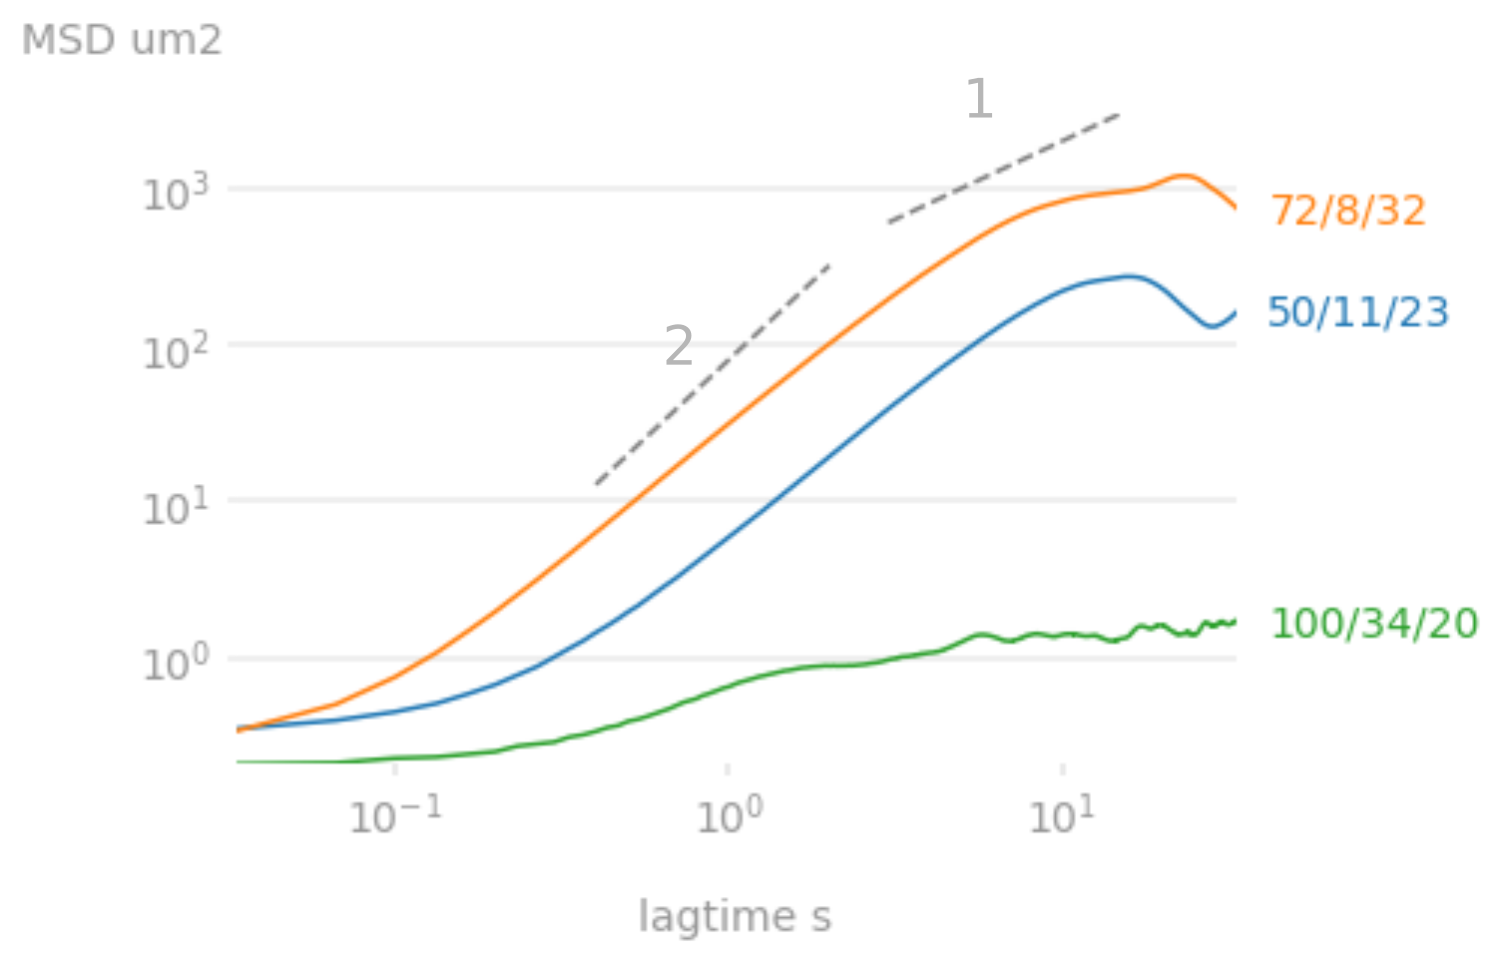
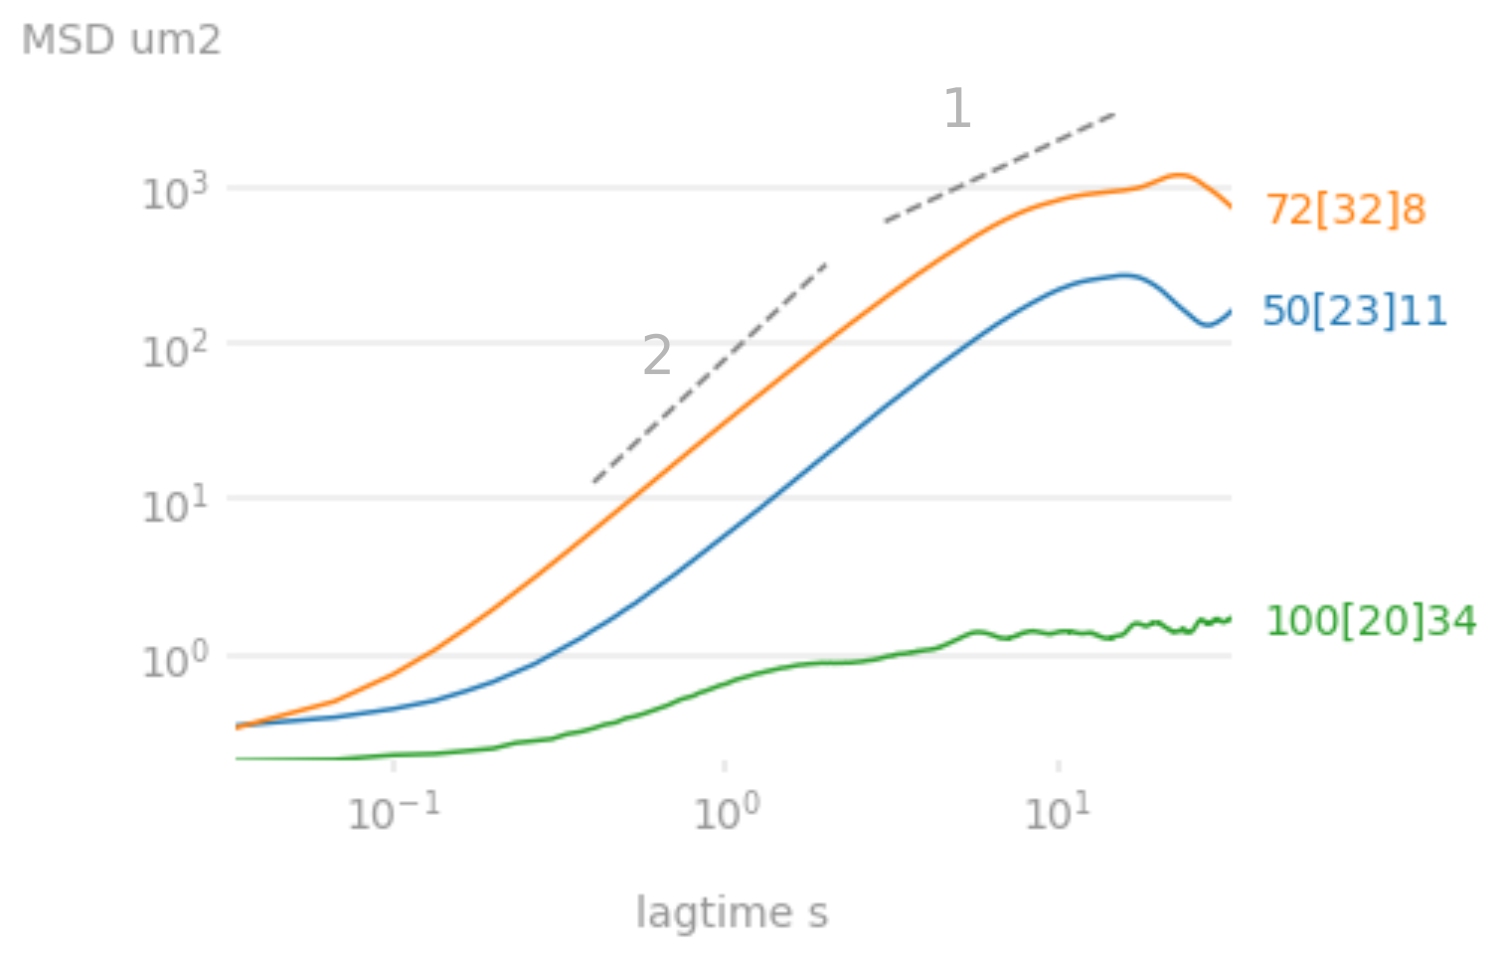
Change the naming convention
use outer[OD]inner instead of outer/inner/OD, because the latter looks 
like a date

diff --git a/Notes/Diffusivity/README.md b/Notes/Diffusivity/README.md
@@ -19,7 +19,7 @@ In our double emulsion system, where the inner droplet experiences a buoyant for
 Bouyant force acts as a damping force, making the vertical motion weaker compared to the horizontal motion.
 As a result, the 2D MSD (XY motion) and 3D MSD (XYZ motion) are usually very similar.
 
-The figure below shows both the 2D and the 3D MSD of inner droplet in a 72/8/32 (outer/inner diameter/OD, um) system.
+The figure below shows both the 2D and the 3D MSD of inner droplet in a 72[32]8 (outer[OD]inner, um) system.
 The 2 MSD's are very similar in the long time limit.
 In the short time limit, however, a slightly larger discrepancy is observed, which is likely due to the manual tracking error.
 ![MSD](MSD.png)
@@ -27,7 +27,7 @@ In the short time limit, however, a slightly larger discrepancy is observed, whi
 When the size of inner droplet is larger, the Z motion is even weaker.
 In this case, the manual tracking error is smaller and the dominance of XY motion is stronger.
 As a result, 2D and 3D MSD's are more similar.
-For example, in a 50/11/23 system, the 2 MSD's are hardly distinguishable.
+For example, in a 50[23]11 system, the 2 MSD's are hardly distinguishable.
 ![MSD 50/11](MSD50-11.jpg)
 
 Since Z motion plays little role in the diffusivity, we use 2D MSD for preliminary analysis.
